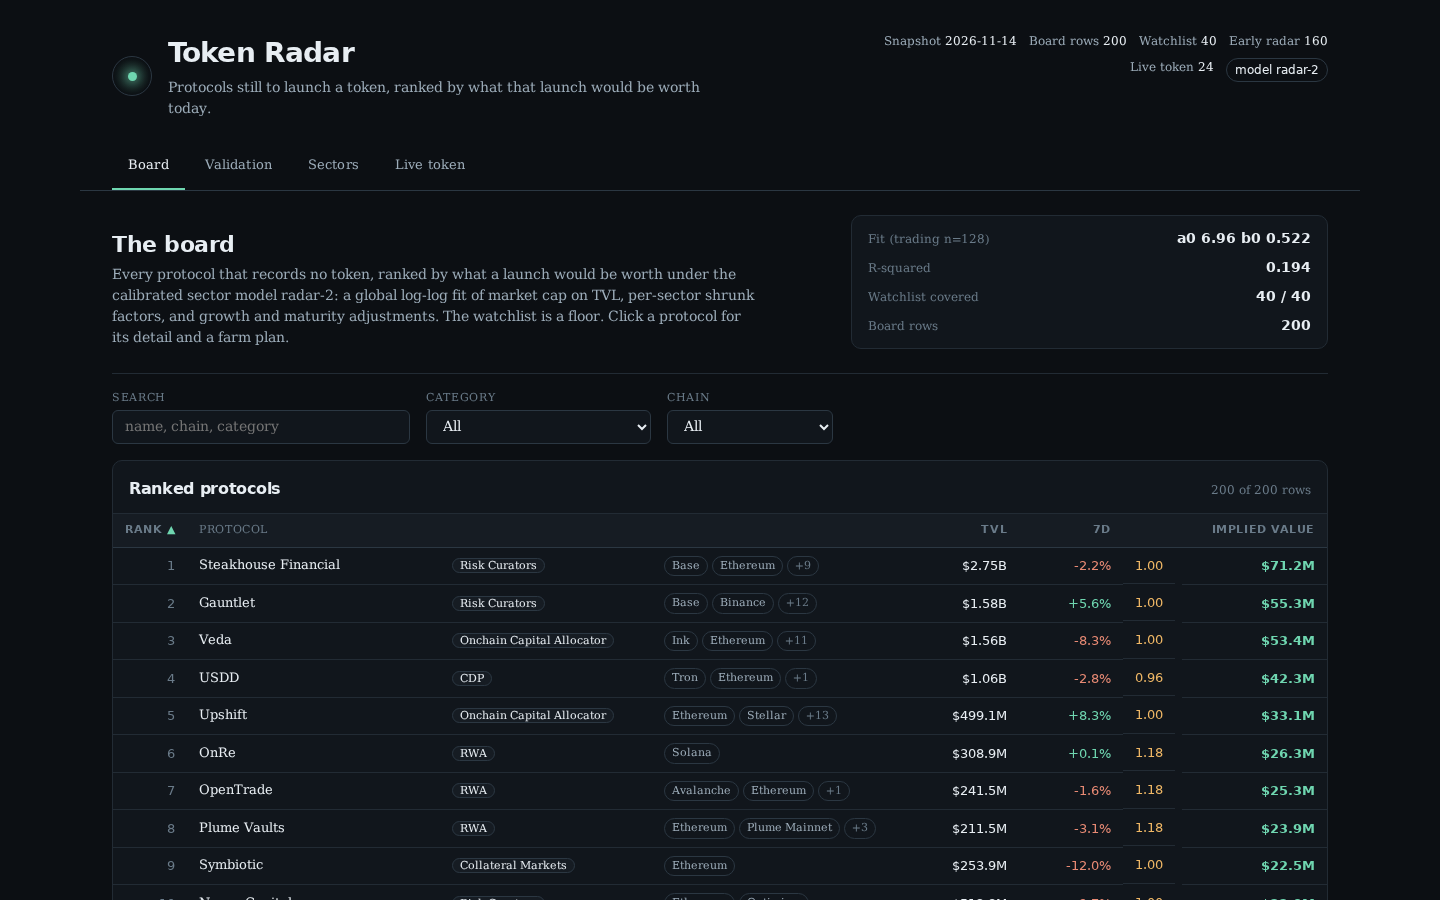
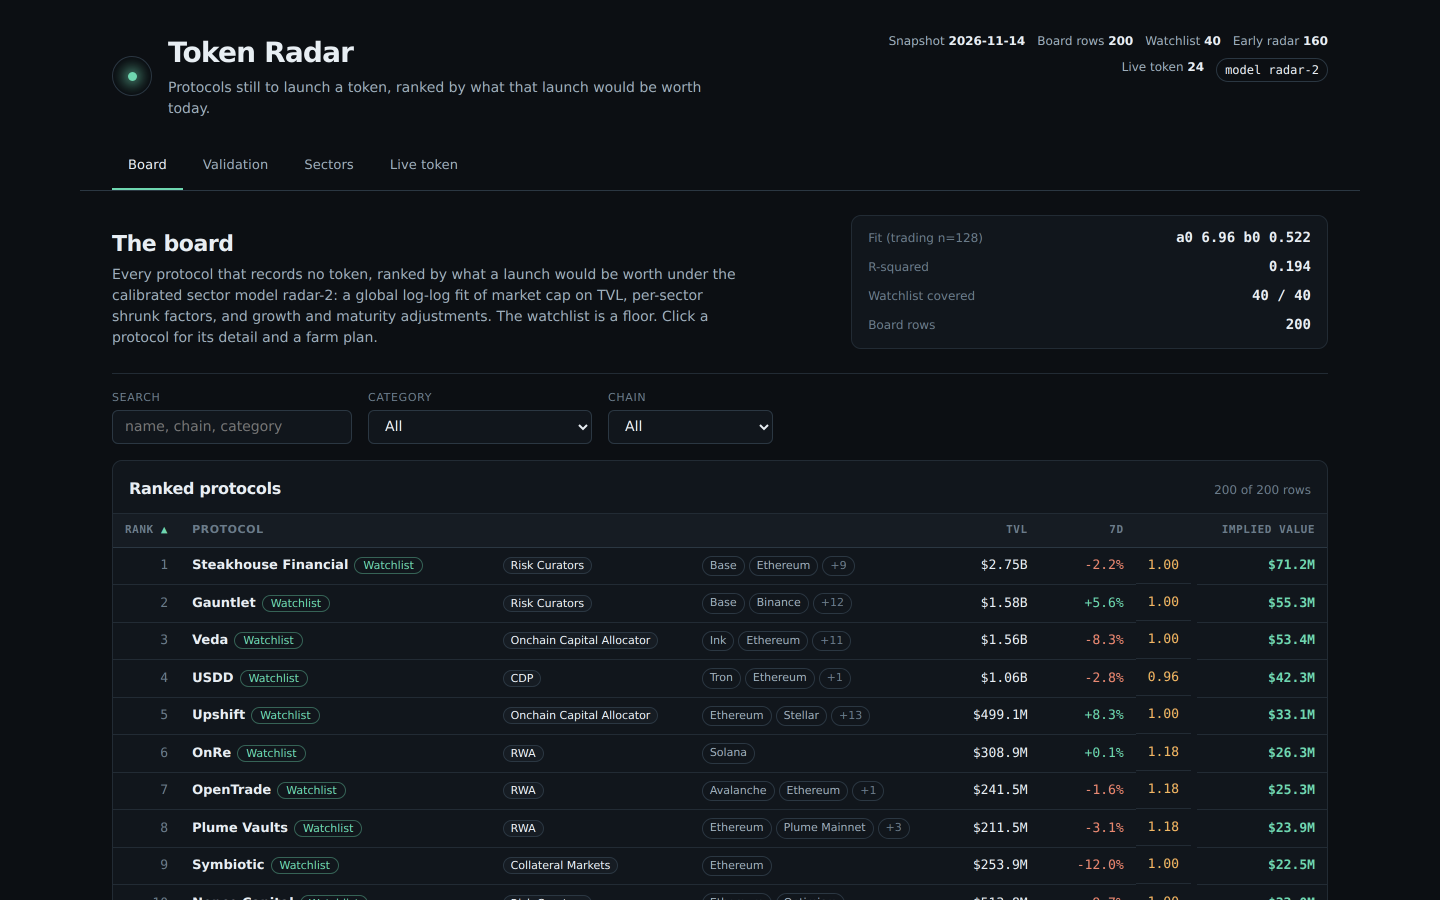
v2: watchlist badges, bounty link, larger screenshots
- Dashboard rows show a Watchlist badge for watchlist protocols (lib/model.ts in_watchlist, app.js/app.css)

- README links the make.fun bounty page

- Screenshots re-rendered at higher resolution (1440x900, 2x supersampled)

diff --git a/lib/model.ts b/lib/model.ts
@@ -116,6 +116,7 @@ export interface RadarRow {
   rank: number;
   slug: string;
   name: string;
+  in_watchlist: boolean;
   category: string | null;
   chains: string[];
   tvl_usd: number;
@@ -558,11 +559,12 @@ export function liveRows(snapshot: Snapshot, model: ModelConstants = MODEL): Liv
 }
 
 /** A board row's compact form for data.js, with the farm plan generated in the page. */
-export function radarRow(row: BoardRow): RadarRow {
+export function radarRow(row: BoardRow, inWatchlist: boolean): RadarRow {
   return {
     rank: row.rank,
     slug: row.slug,
     name: row.name,
+    in_watchlist: inWatchlist,
     category: row.category,
     chains: row.chains,
     tvl_usd: row.tvl_usd,
@@ -596,7 +598,7 @@ export function buildRadar(snapshot: Snapshot, model: ModelConstants = MODEL): {
     fit,
     sectors: sectors.map((s) => ({ category: s.category, n: s.n, median_multiple: s.median_multiple, factor: s.factor })),
     validation: VALIDATION,
-    rows: board.map(radarRow),
+    rows: board.map((r) => radarRow(r, snapshot.watchlist.includes(r.slug))),
     live,
   };
   return { board, radar };

diff --git a/dashboard/app.css b/dashboard/app.css
@@ -140,6 +140,7 @@ td.num, th.num { text-align: right; font-family: var(--mono); white-space: nowra
 
 .badge { font-size: 11px; padding: 1px 8px; border-radius: 999px; border: 1px solid var(--line); color: var(--dim); }
 .badge.early { border-color: rgba(111,214,176,0.4); color: var(--accent); }
+.badge.wl { border-color: rgba(111,214,176,0.4); color: var(--accent); margin-left: 6px; }
 
 .detail { max-width: 1280px; margin: 0 auto; padding: 0 var(--s6) var(--s6); }
 .detail[hidden] { display: none; }

diff --git a/dashboard/app.js b/dashboard/app.js
@@ -146,6 +146,7 @@
       var a = el('a', '', r.name);
       a.href = '#p=' + encodeURIComponent(r.slug);
       tdSlug.appendChild(a);
+      if (r.in_watchlist) tdSlug.appendChild(el('span', 'badge wl', 'Watchlist'));
 
       var tdCat = el('td');
       tdCat.appendChild(catChip(r.category));

diff --git a/README.md b/README.md
@@ -4,7 +4,7 @@
 [![rank](https://make.fun/badge/token-radar-01/aww17/token-radar-01/rank.svg)](https://make.fun/c/token-radar-01)
 [![reward](https://make.fun/badge/token-radar-01/aww17/token-radar-01/reward.svg)](https://make.fun/c/token-radar-01)
 
-A static web dashboard ranking protocols that record no token by their implied launch value. Entry for the [token-radar-01](https://make.fun/c/token-radar-01) bounty on make.fun.
+A static web dashboard ranking protocols that record no token by their implied launch value. Entry for the [token-radar-01](https://make.fun/c/token-radar-01) bounty on make.fun — bounty page: [token-radar-01](https://make.fun/bounty/token-radar-01) ($1,325 in USDC).
 
 ## What it does
 
